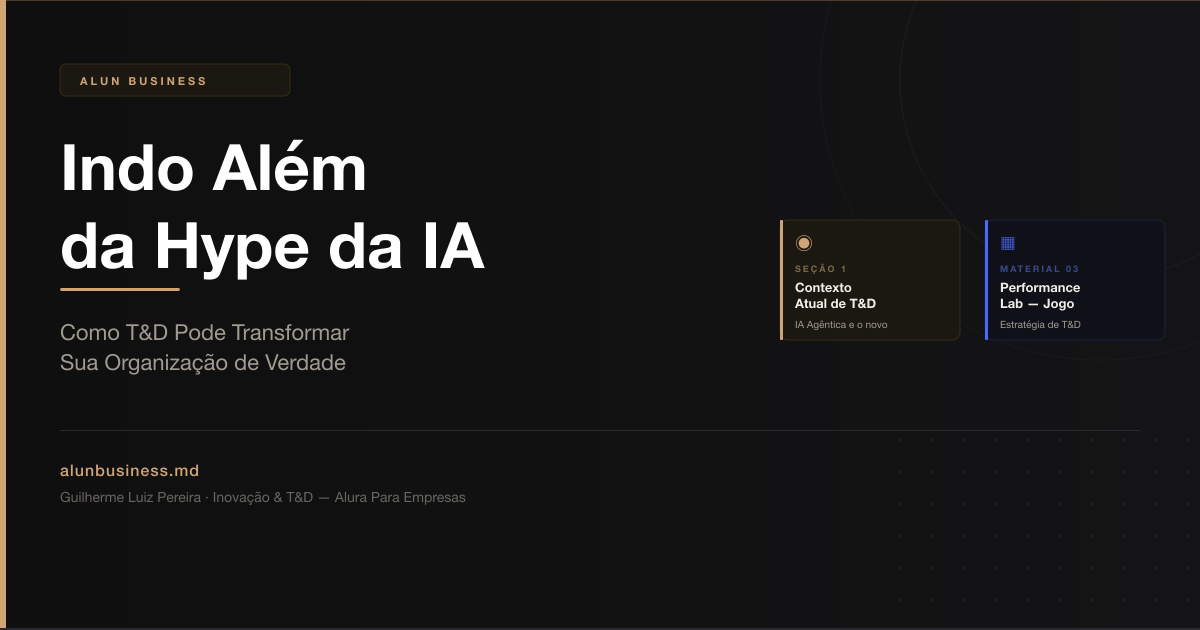
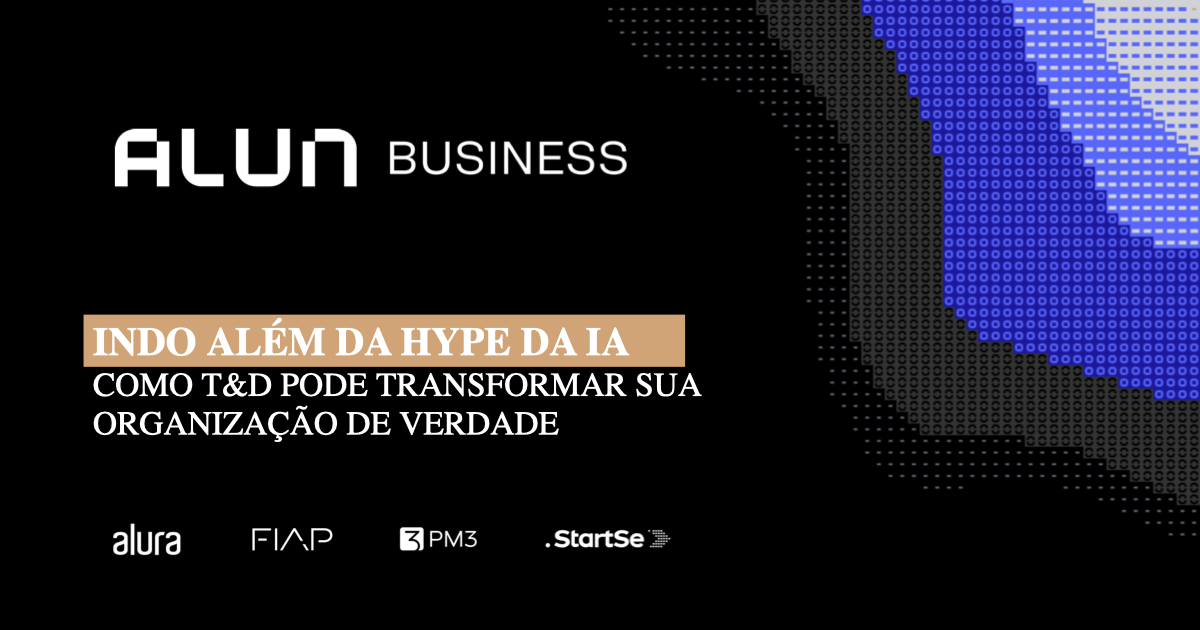
fix: update OG image to cover slide and refresh meta copy
- og-image.png: capa do slide da palestra (1200x630, exported via qlmanage)
- og:title → "alunbusiness.md"
- og:description → "Transformando seu negócio para além da IA"

diff --git a/_layouts/default.html b/_layouts/default.html
@@ -3,8 +3,8 @@
 <head>
   <meta charset="UTF-8">
   <meta name="viewport" content="width=device-width, initial-scale=1">
-  {% assign og_title = page.title | default: "Indo Além da Hype da IA" %}
-  {% assign og_desc  = page.description | default: site.description %}
+  {% assign og_title = page.og_title | default: "alunbusiness.md" %}
+  {% assign og_desc  = page.og_description | default: "Transformando seu negócio para além da IA" %}
   {% assign og_url   = page.url | prepend: site.url %}
   <meta name="description" content="{{ og_desc }}">
   <title>{% if page.title and page.title != "Início" %}{{ page.title }} — Alun Business{% else %}Indo Além da Hype da IA · Alun Business{% endif %}</title>